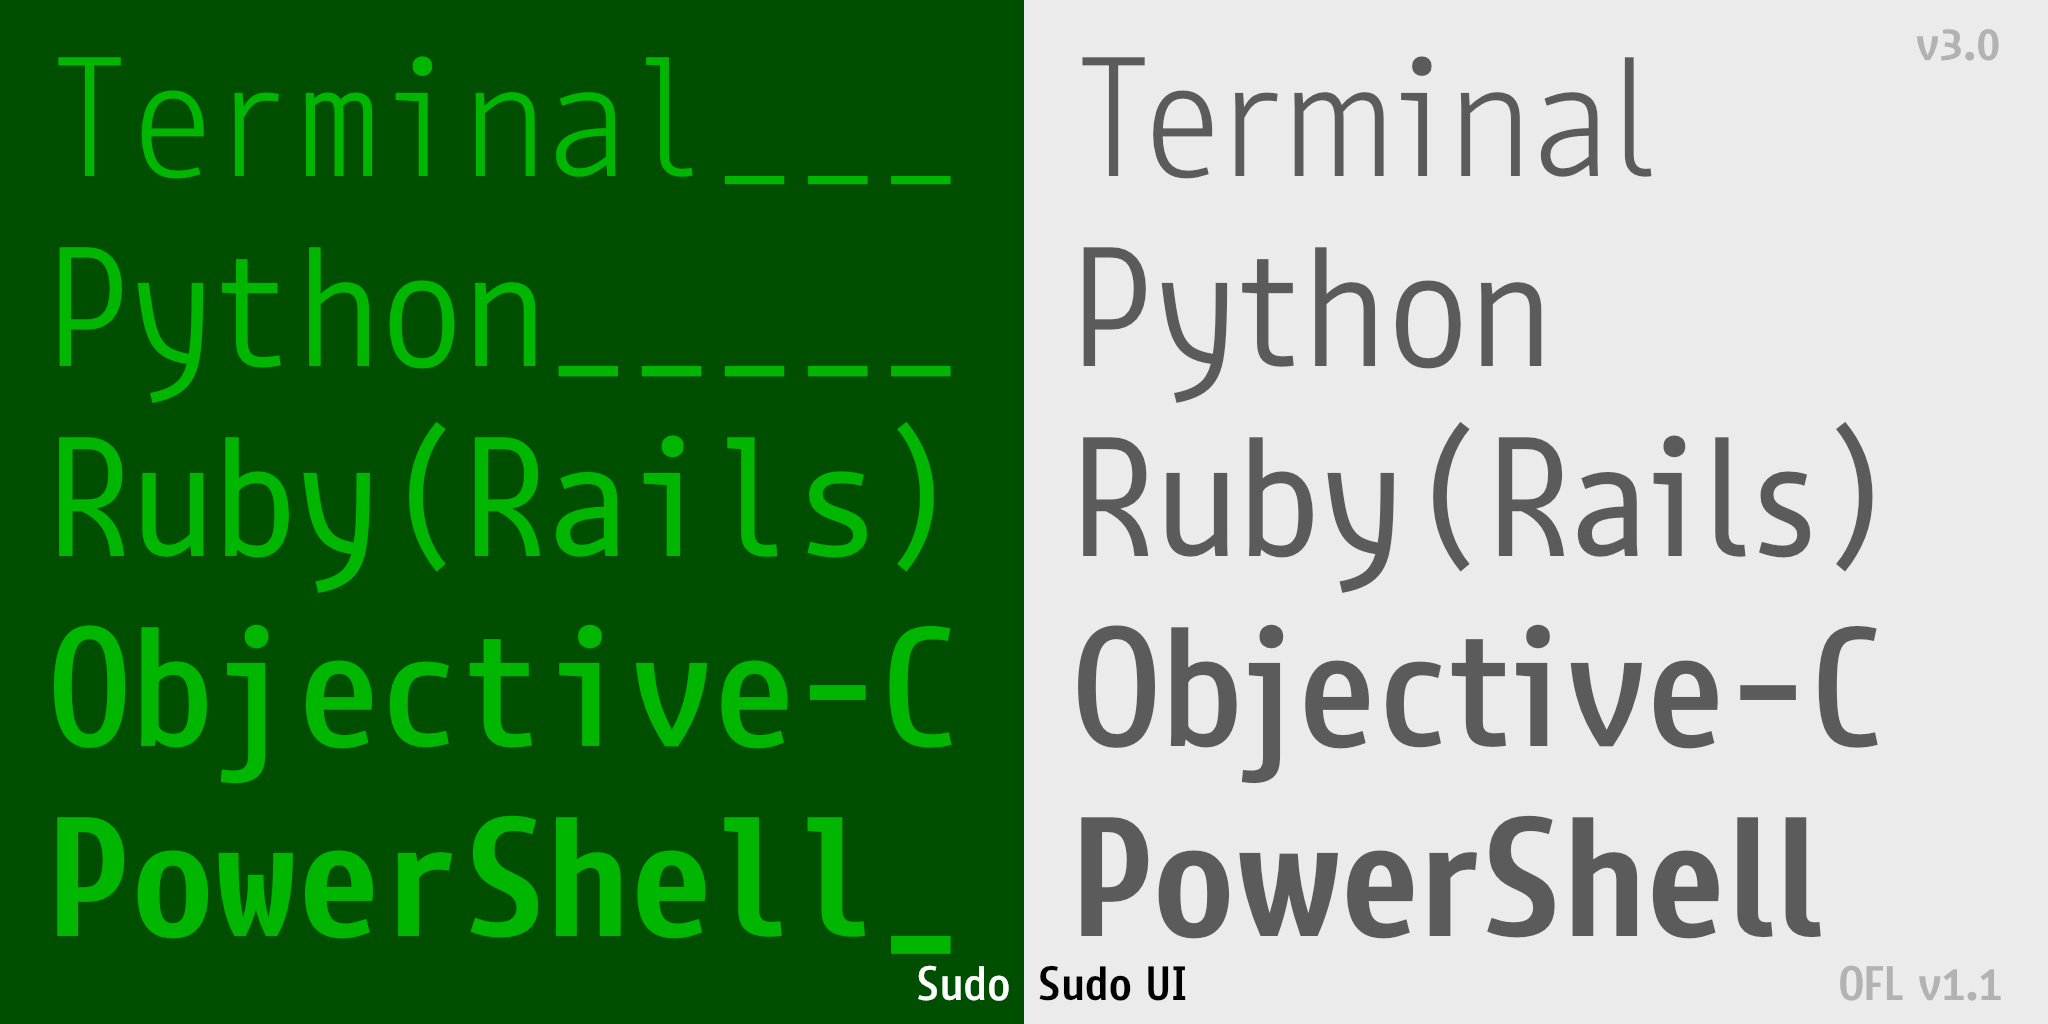
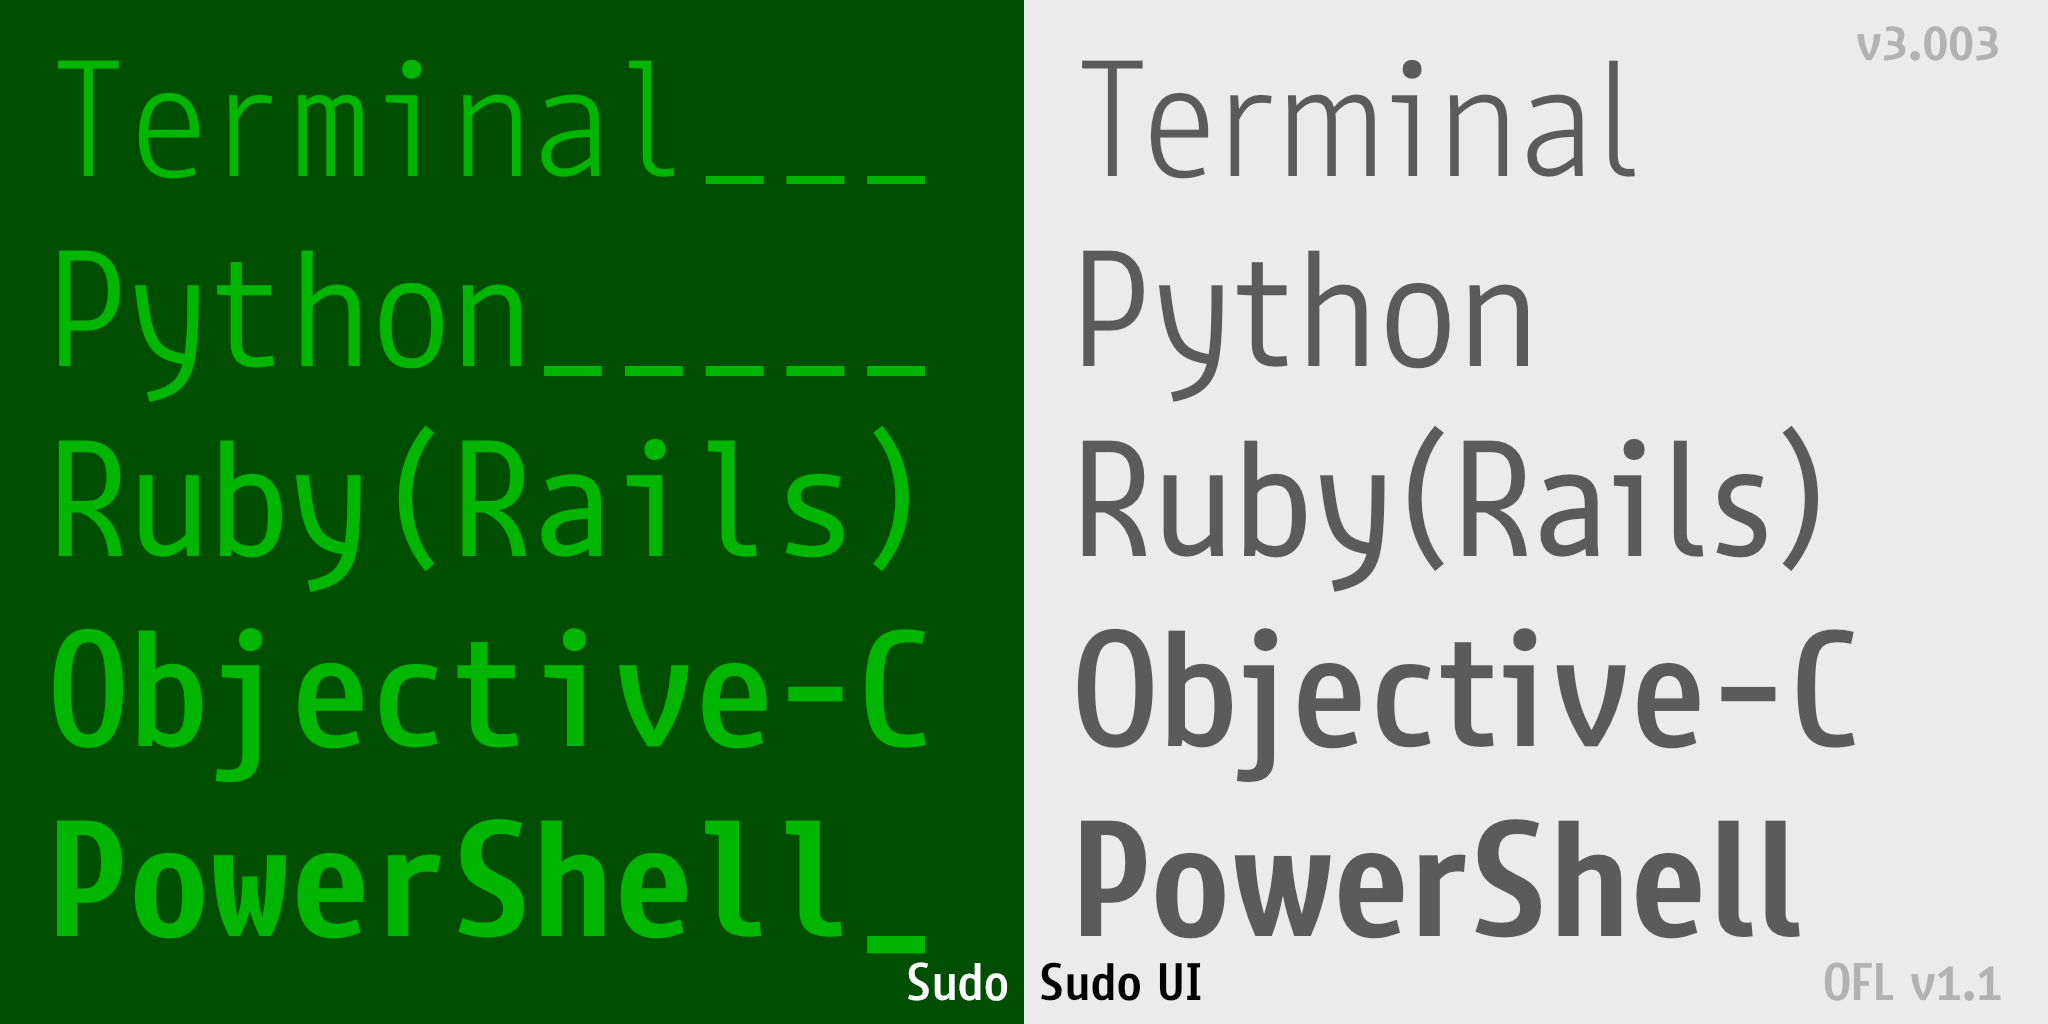
Adapt image to new font size

diff --git a/documentation/image1.py b/documentation/image1.py
@@ -36,10 +36,11 @@ FONT_PATH = "fonts/variable/Sudo[YTDE,wght].ttf"
 FONT2_PATH = "fonts/variable/SudoUI[YTDE,wght].ttf"
 FONT_LICENSE = "OFL v1.1"
 AUXILIARY_FONT = "fonts/variable/SudoUI[YTDE,wght].ttf"
-AUXILIARY_FONT_SIZE = 54
+AUXILIARY_FONT_SIZE = 48
 
 BIG_TEXT = "AaBb"
-BIG_TEXT_FONT_SIZE = 190
+BIG_TEXT_FONT_SIZE = 150
+BIG_TEXT_LINE_HEIGHT = 190
 BIG_TEXT_SIDE_MARGIN = MARGIN * 1
 BIG_TEXT_BOTTOM_MARGIN = MARGIN * 2
 
@@ -129,8 +130,8 @@ def draw_main_text():
         ):
             fontVariations(wght=weight)
             text(s, (MARGIN, 0))
-            translate(0, -BIG_TEXT_FONT_SIZE)
-        translate(WIDTH / 2, 5 * BIG_TEXT_FONT_SIZE)
+            translate(0, -BIG_TEXT_LINE_HEIGHT)
+        translate(WIDTH / 2, 5 * BIG_TEXT_LINE_HEIGHT)
         font(FONT2_PATH)
         fill(91 / 255, 91 / 255, 91 / 255)
         stripchar = "_"
